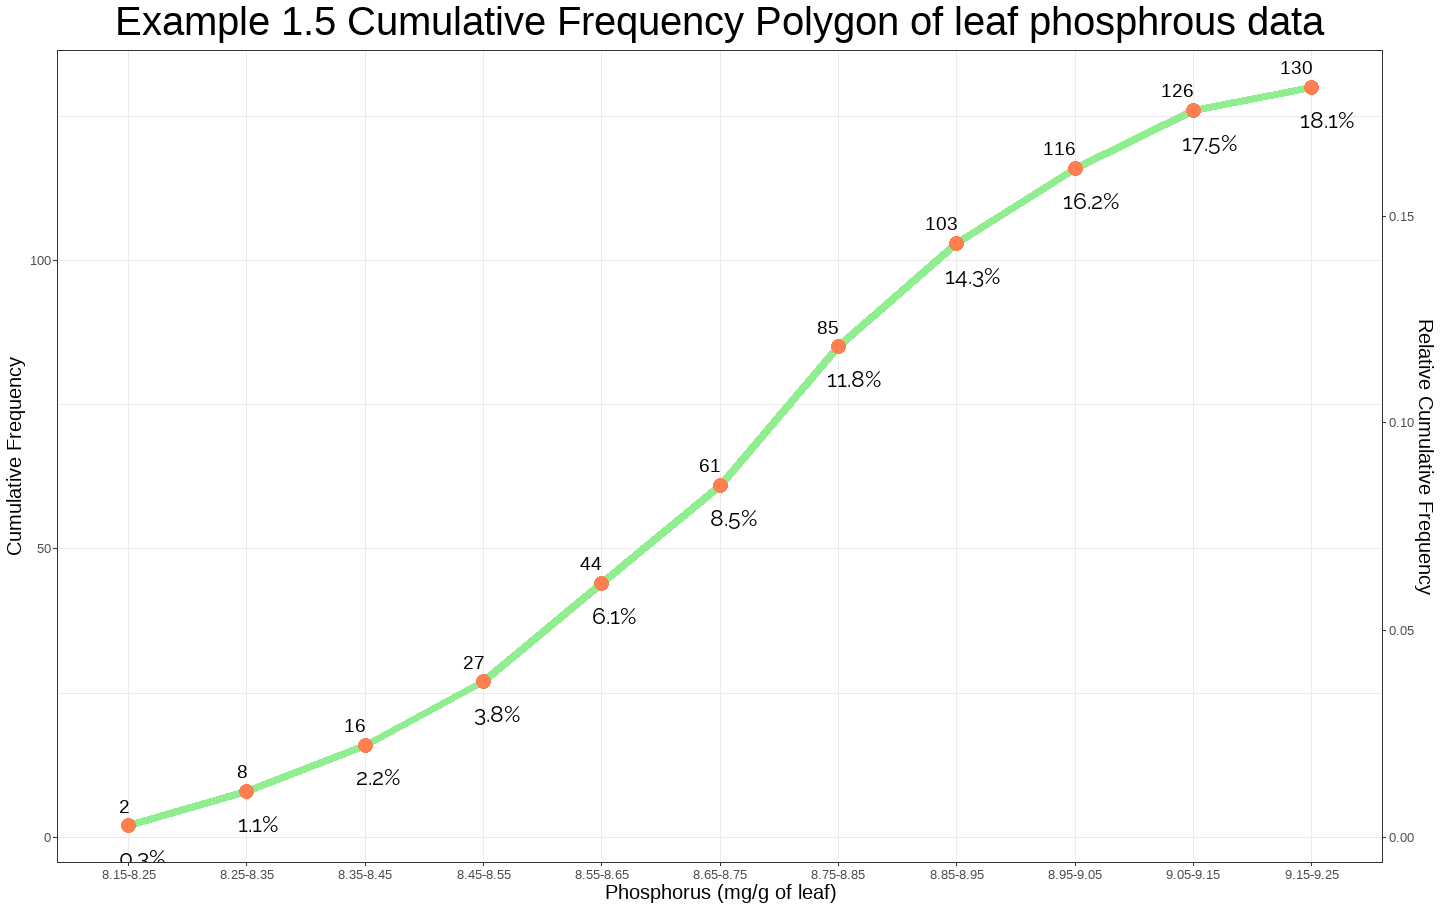
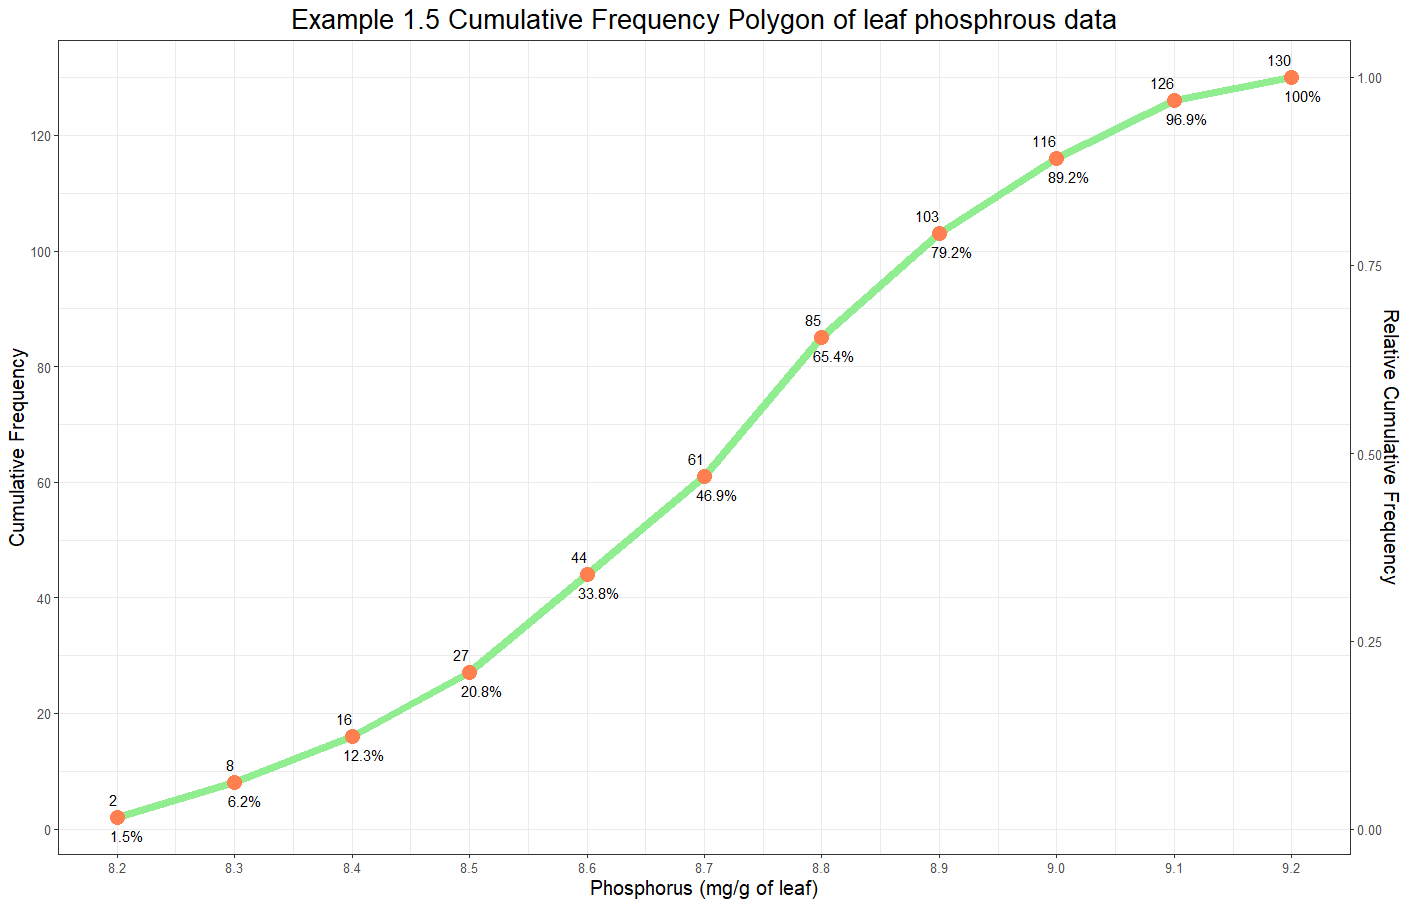
update

diff --git a/study/_posts/2022-03-10-[의학통계학방법론] Ch1. Data Types and Presentation.md b/study/_posts/2022-03-10-[의학통계학방법론] Ch1. Data Types and Presentation.md
@@ -621,7 +621,8 @@ hist1_5
 - 관측수에 대한 평균은 11.82이며 표준편차는 6.72이다.<br/>
 
 ``` r
-cum1 <- ggplot(ex1_5,aes(x=exam1_5.Phosphorus,y=exam1_5.CumFreq1))+
+cum1 <- ggplot(ex1_5,aes(x=plt2$phos,y=ex1_5$exam1_5.CumFreq1))+
+  scale_x_continuous(breaks = plt2$pho)+
   theme(plot.title = element_text(hjust = 0.5))+
   ggtitle("Example 1.5 Cumulative Frequency Polygon of leaf phosphrous data")+
   scale_fill_brewer(palette="Set2")+
@@ -633,12 +634,12 @@ cum1 <- ggplot(ex1_5,aes(x=exam1_5.Phosphorus,y=exam1_5.CumFreq1))+
   theme(axis.text.x  = element_text(size=10))+
   theme(axis.text.y=element_text(size=10))+
   theme(axis.title = element_text(size=15))+
-  theme(plot.title = element_text(size=30,hjust = 0.5))+
-  geom_text(aes(label=exam1_5.CumFreq1),hjust=1,vjust=-1,size=5)+
-  geom_text(aes(label=paste0(round(((exam1_5.CumFreq1)/sum(exam1_5.CumFreq1))*100,1),"%")),hjust=0.2,vjust=2.5,size=6,family = "raleway")+
+  theme(plot.title = element_text(size=20,hjust = 0.5))+
+  geom_text(aes(label=cummulative_frequency),hjust=1,vjust=-1,size=4)+
+  geom_text(aes(label=paste0(round((exam1_5.CumFreq1/max(exam1_5.CumFreq1))*100,1),"%")),hjust=0.2,vjust=2,size=4,family = "raleway")+
   geom_line(stat="identity",group=1,color="light green",size=3)+
   geom_point(stat="identity",group=1,color="coral",size=5)+
-  scale_y_continuous(sec.axis = sec_axis( ~./sum(ex1_5$exam1_5.CumFreq1),name = "Relative Cumulative Frequency"))
+  scale_y_continuous(breaks = seq(0, 140, 20), sec.axis = sec_axis( ~./max(ex1_5$exam1_5.CumFreq1),name = "Relative Cumulative Frequency"))
 cum1
 ```
 
@@ -649,7 +650,8 @@ cum1
 - 앞서 살펴본 히스토그램과 도수다각형을 통해 알 수 있었던 것처럼 양끝으로 갈수록 그래프의 증가 폭이 작아지는 것을 통해 양 극단의 도수가 작고 중간 값의 도수가 크다는 것을 알 수 있다.<br/>
 
 ``` r
-cum2 <- ggplot(ex1_5,aes(x=exam1_5.Phosphorus,y=exam1_5.CumFreq2))+
+cum2 <- ggplot(ex1_5,aes(x=plt2$phos,y=exam1_5.CumFreq2))+
+  scale_x_continuous(breaks = plt2$pho)+
   theme(plot.title = element_text(hjust = 0.5))+
   ggtitle("Example 1.5 Cumulative Frequency Polygon of leaf phosphrous data")+
   scale_fill_brewer(palette="Set2")+
@@ -661,12 +663,12 @@ cum2 <- ggplot(ex1_5,aes(x=exam1_5.Phosphorus,y=exam1_5.CumFreq2))+
   theme(axis.text.x  = element_text(size=10))+
   theme(axis.text.y=element_text(size=10))+
   theme(axis.title = element_text(size=15))+
-  theme(plot.title = element_text(size=30,hjust = 0.5))+
-  geom_text(aes(label=exam1_5.CumFreq2),hjust=0,vjust=-1,size=5)+
-  geom_text(aes(label=paste0(round(((exam1_5.CumFreq2)/sum(exam1_5.CumFreq1))*100,1),"%")),hjust=0.9,vjust=2.5,size=6,family = "raleway")+
+  theme(plot.title = element_text(size=20,hjust = 0.5))+
+  geom_text(aes(label=cummulative_frequency),hjust=0,vjust=-1,size=4)+
+  geom_text(aes(label=paste0(round(((exam1_5.CumFreq2)/max(exam1_5.CumFreq1))*100,1),"%")),hjust=1,vjust=2,size=4,family = "raleway")+
   geom_line(stat="identity",group=1,color="light green",size=3)+
   geom_point(stat="identity",group=1,color="coral",size=5)+
-  scale_y_continuous(sec.axis = sec_axis( ~./sum(ex1_5$exam1_5.CumFreq1),name = "Relative Cumulative Frequency"))
+  scale_y_continuous(breaks = seq(0, 140, 20), sec.axis = sec_axis( ~./max(ex1_5$exam1_5.CumFreq1),name = "Relative Cumulative Frequency"))
 cum2
 ```
 
